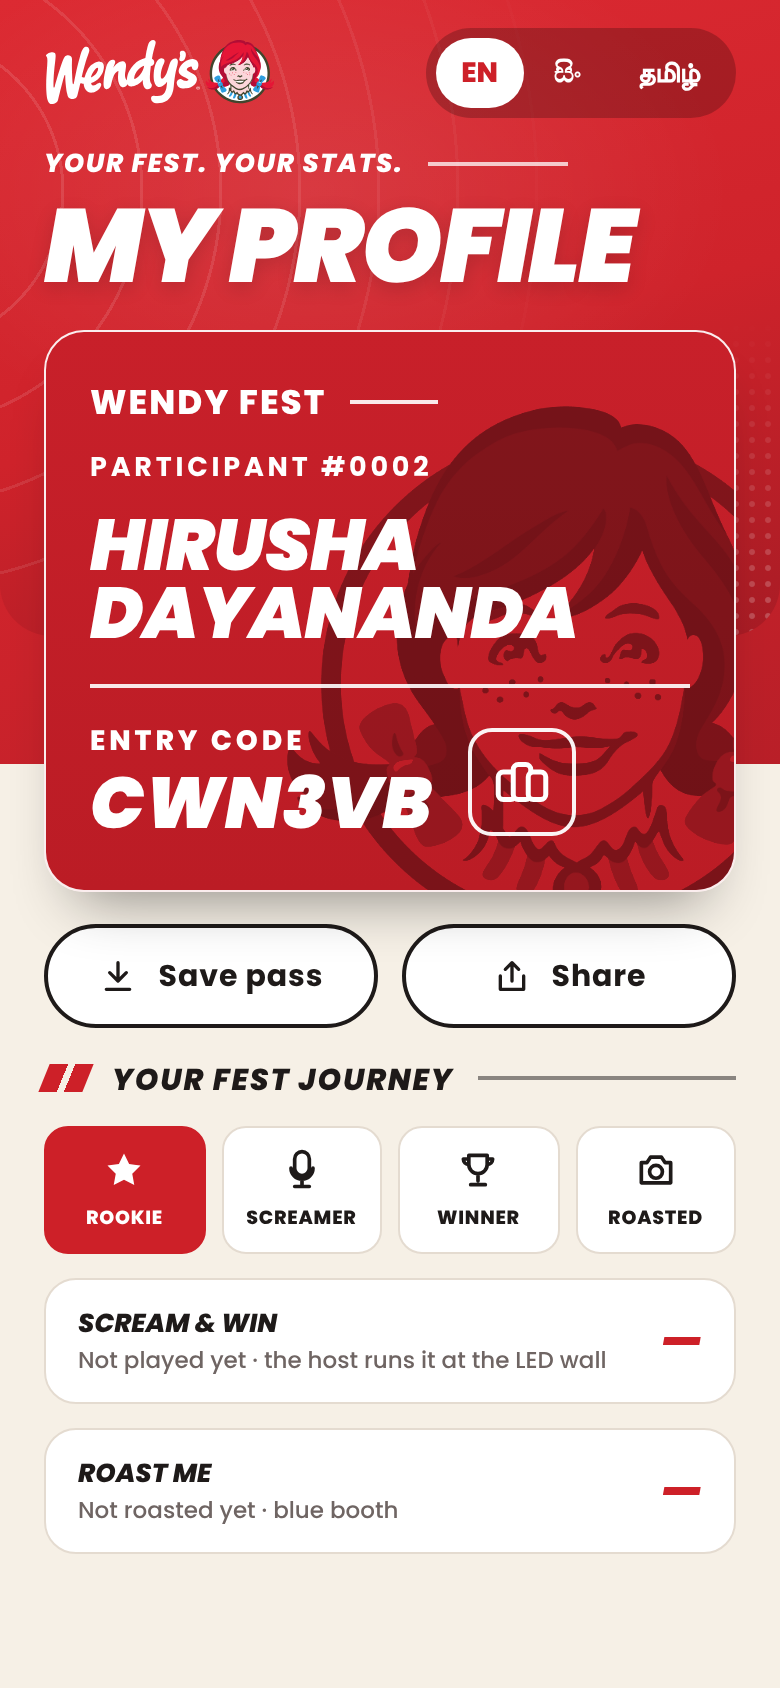
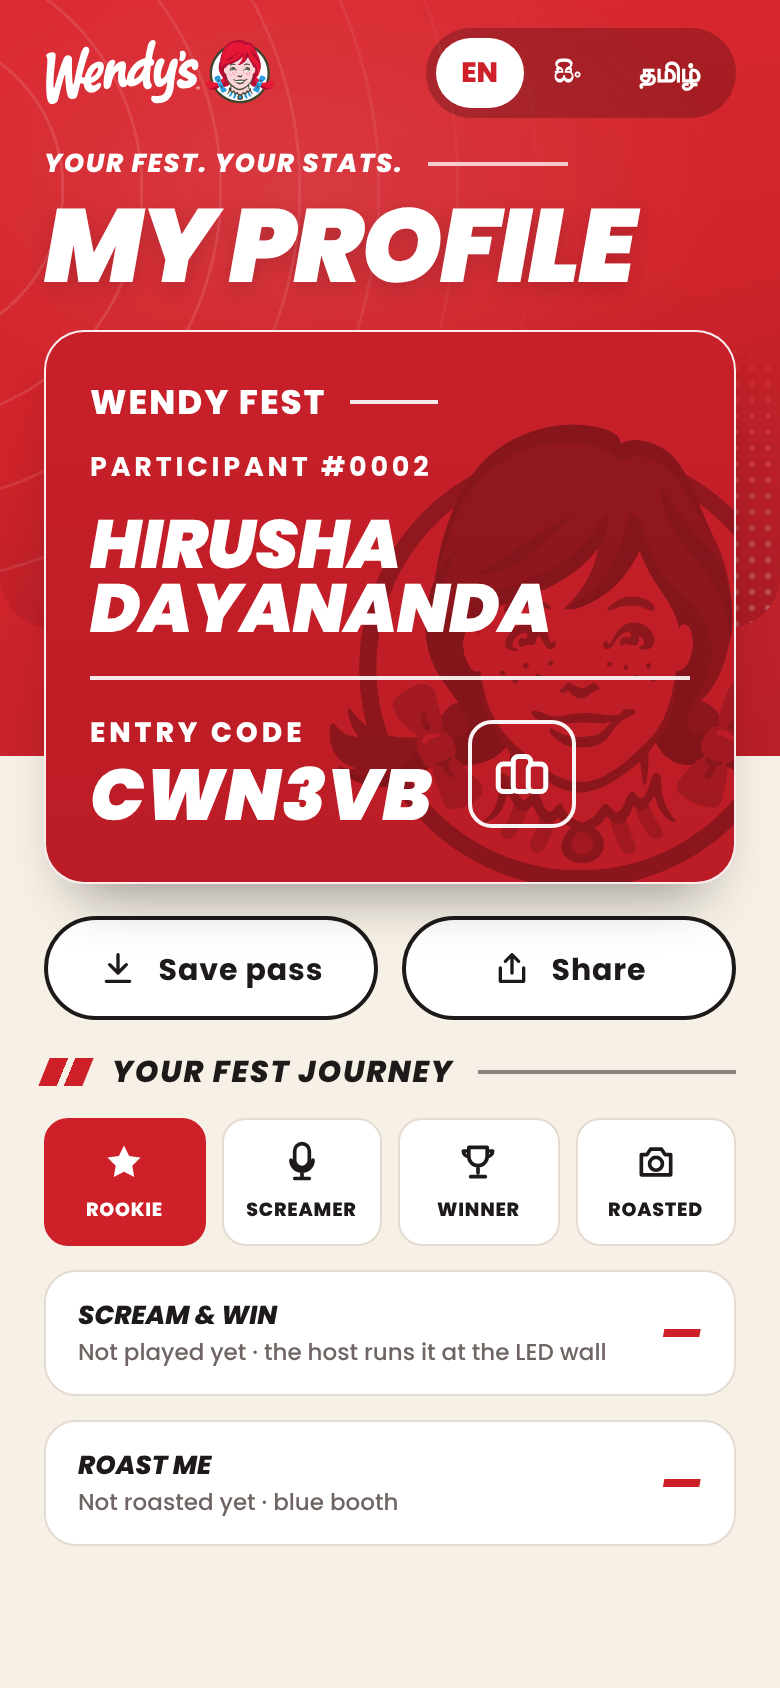
Design proposal: profile pass cameo tint aligned to reference
Claude-Session: https://claude.ai/code/session_015MHPvZ3kkn8jw5YatKY7r4

Changed region(s): [[0.0615, 0.2156, 1.0, 0.9242], [0.0, 0.4313, 0.0615, 0.4621]]

diff --git a/design/after.css b/design/after.css
@@ -88,13 +88,13 @@ body { font-family: Poppins, system-ui, sans-serif; color:var(--ink); background
 .ppass .wf { font-weight:800; text-transform:uppercase; font-size:17px; letter-spacing:.06em; display:flex; align-items:center; gap:12px; }
 .ppass .wf::after { content:""; width:44px; height:2px; background:rgba(255,255,255,.9); }
 .ppass .pn { font-weight:700; letter-spacing:.14em; text-transform:uppercase; font-size:13.5px; margin-top:10px; }
-.ppass .name { font-size:36px; margin-top:12px; width:260px; line-height:.95; letter-spacing:-.01em; }
+.ppass .name { font-size:34px; margin-top:12px; width:250px; line-height:.95; letter-spacing:-.01em; }
 .ppass .rule { height:2px; background:rgba(255,255,255,.9); margin:18px 0 16px; width:100%; }
 .ppass .ec { display:flex; align-items:center; gap:18px; }
 .ppass .ec .l { font-weight:800; letter-spacing:.14em; text-transform:uppercase; font-size:14px; }
 .ppass .ec .c { font-weight:900; font-style:italic; font-size:36px; letter-spacing:.01em; line-height:1.05; margin-top:2px; }
 .ppass .copy { width:54px; height:54px; border:2px solid rgba(255,255,255,.95); background:transparent; color:#fff; border-radius:12px; box-shadow:none; }
-.ppass .ghost { position:absolute; right:-70px; top:30px; width:300px; height:auto; opacity:.5; filter:grayscale(1) contrast(1.1) brightness(1.18); mix-blend-mode:multiply; pointer-events:none; }
+.ppass .ghost { position:absolute; right:-54px; top:40px; width:262px; height:auto; opacity:.42; filter:grayscale(1) contrast(1.0) brightness(1.3); mix-blend-mode:multiply; pointer-events:none; }
 .ppass > *:not(.ghost) { position:relative; z-index:1; }
 .hdr.profile { padding-bottom:0; overflow:visible; border-radius:0; }
 .hdr.profile .bg { position:absolute; left:0; right:0; top:0; bottom:64px; border-radius:0 0 26px 26px; overflow:hidden; z-index:0;
